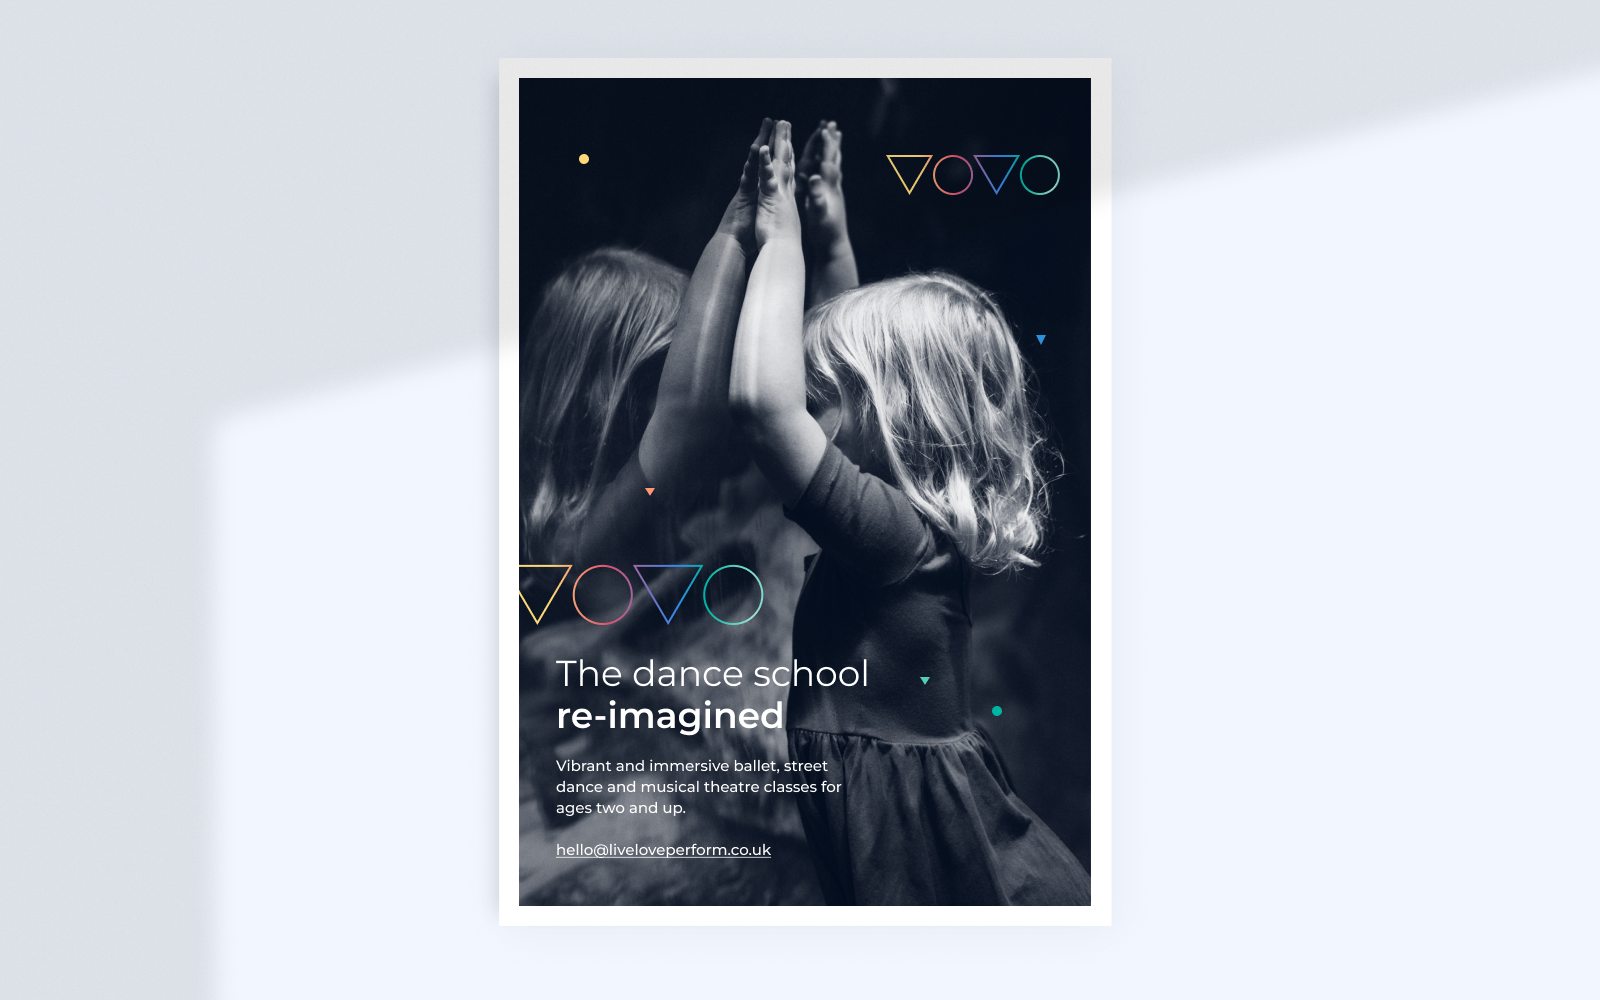
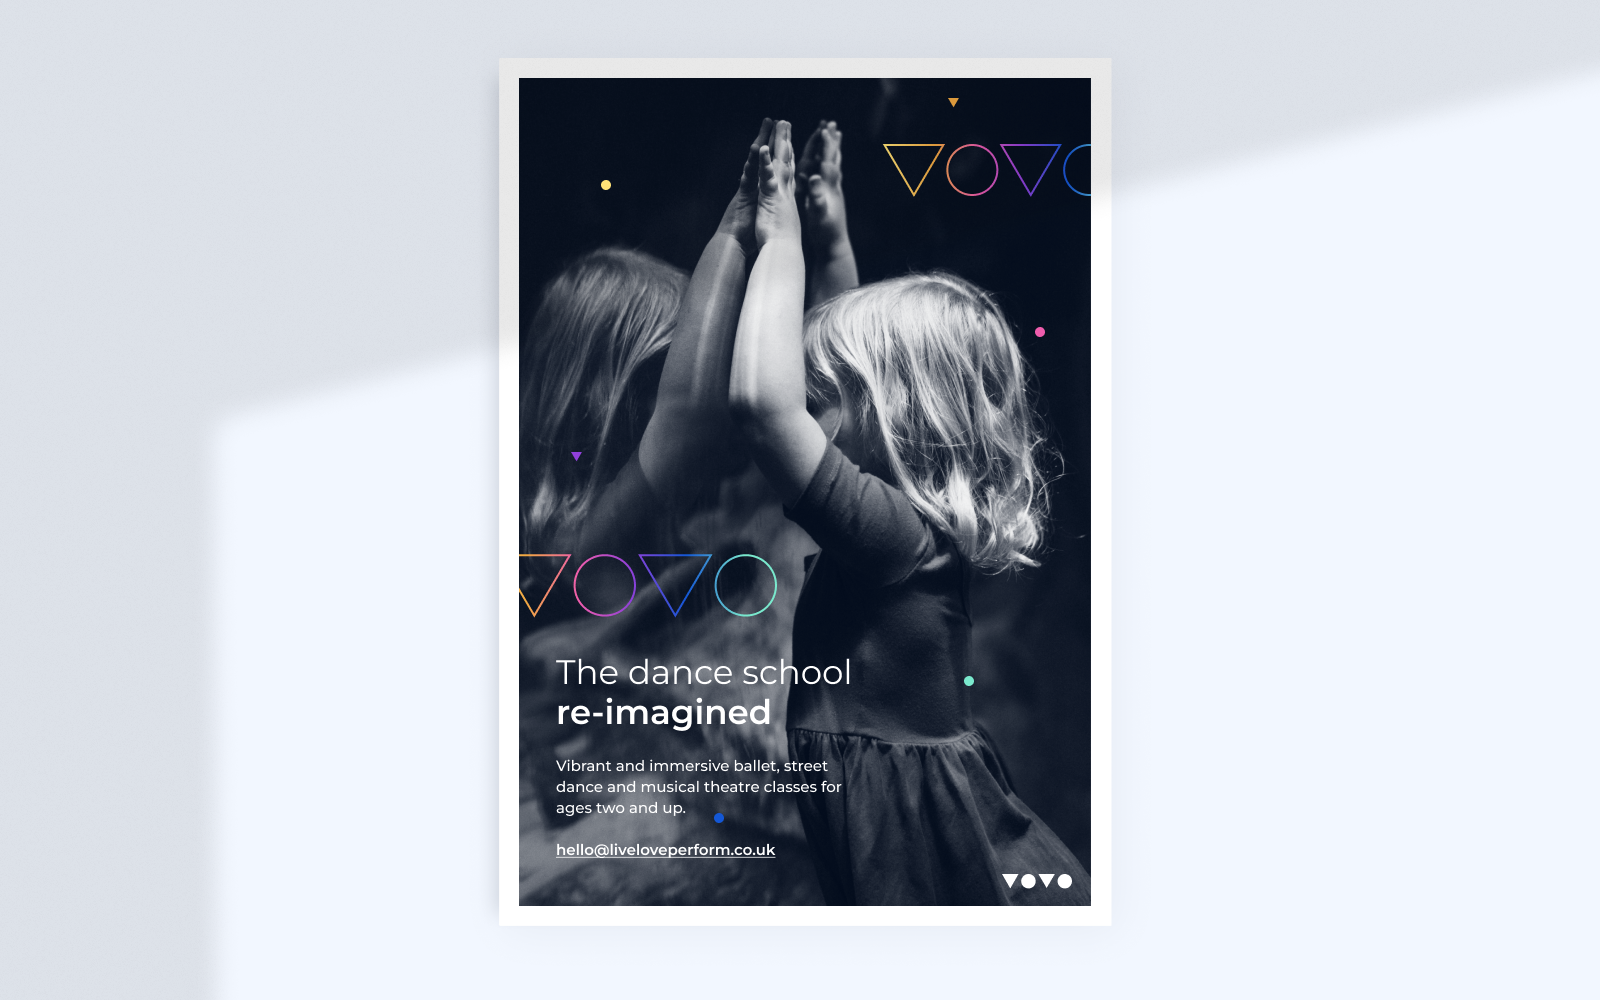
Images

diff --git a/posts/5-what-will-be.html b/posts/5-what-will-be.html
@@ -55,7 +55,7 @@
                     </p>
 
                     <div class="caption">
-                        <img src="/assets/LLP logo.png" alt="" />
+                        <img src="/assets/LLP.gif" alt="" />
                         <p>Caption.</p>
                     </div>
                 </div>
@@ -64,8 +64,16 @@
                     <div class="caption">
                         <img
                             class="fullwidth"
-                            src="/assets/LLP poster.png"
-                            alt="" />
+                            src="/assets/LLP mobile.png" alt="" />
+                        <p>Caption.</p>
+                    </div>
+                </div>
+
+                <div class="post--body">
+                    <div class="caption">
+                        <img
+                            class="fullwidth"
+                            src="/assets/LLP poster.png" alt="" />
                         <p>Caption.</p>
                     </div>
                 </div>

diff --git a/work.html b/work.html
@@ -71,7 +71,7 @@
                     </p>
                     <p>
                         Est diam consectetur adipiscing
-                        <a href="posts/2-not-perfect">smoke and mirrors</a>.
+                        <a href="posts/2-thief-of-joy">smoke and mirrors</a>.
                     </p>
                     <p>
                         Elit sed do tempor estim

diff --git a/posts/2-thief-of-joy.html b/posts/2-thief-of-joy.html
@@ -44,7 +44,7 @@
             <article class="post">
                 <div class="post--header">
                     <div class="post--date">27 March 2022</div>
-                    <h1>Perfection is not progression</h1>
+                    <h1>Comparison is the thief of joy</h1>
                 </div>
 
                 <div class="post--body">

diff --git a/contact.html b/contact.html
@@ -47,7 +47,7 @@
             <article class="post">
                 <div class="post--header">
                     <div class="post--date">18 January 2023</div>
-                    <h1>No feeling is final</h1>
+                    <h1>Passionately curious</h1>
                 </div>
 
                 <div class="post--body">
